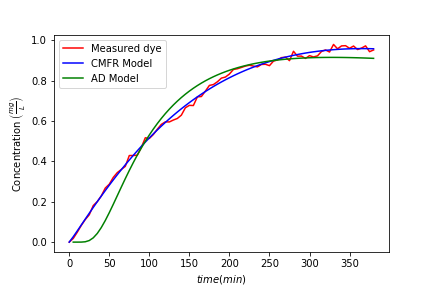
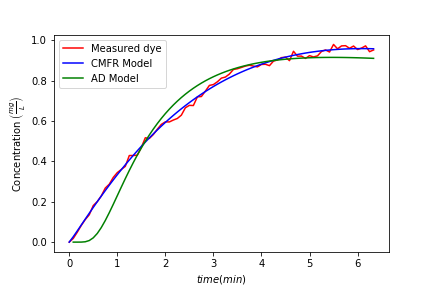
graph units

diff --git a/Lab5/team10_lab5.md b/Lab5/team10_lab5.md
@@ -13,11 +13,15 @@ Baffles:
 
 ### Introduction ###
 Our clients, Dr. Monroe Weber-Shirk and Jonathan Harris, work under the New York State Department of Environmental Conservation. The New York State Department of Environmental Conservation are concerned with the contaminants that have been released into the lakes and rivers by the industry and our clients have been asked to figure out methods to remove the contaminants. For easy analysis, they have modelled the various contaminated lakes and rivers in the New York State as flow reactors in order to decide what actions should be taken, namely CMFR, PFR and flow dispersion reactor. However, they would like to explore how to model the contaminant under the different types of flow reactors.
+
 The main objectives of this study are to:
+
 1.	Determine the time taken for contaminant to be removed in the different types of flow reactors
 2.	Understand how contaminants flow through each of the flow reactors and model them to a high degree of accuracy
 3.	Confirm which flow reactor results in the removal of contaminants the quickest
-CMFR and PFR are both well-known standardized flow reactors. They can be modeled with equations quite simply. The mass balance for the CMFR is given in equation (52).
+CMFR and PFR are both well-known standardized flow reactors. They can be modeled with equations quite simply.
+
+The mass balance for the CMFR is given in equation (52).
 $$\rlap{-} V _{r} \frac{dC}{dt} =\left(C_{in} -C\right)Q$$
 
 Assuming the initial concentration of tracer in the reactor is $C_{0} =\frac{C_{tr} \rlap{-} V _{tr} }{\rlap{-} V _{r} }$ and the input concentration is zero $(C_{in} = 0)$, the solution to the differential equation above is equation (53).
@@ -50,6 +54,8 @@ For the closed boundary condition, the Peclet number is given by equation (69)
 
 $$Pe=2N$$
 
+In our experiment, we used red dye as our contaminant. The reason we chose red dye rather than other “contaminants” is because it is easy to perform the experiment with. It is non-toxic at low dosage and can be clearly seen by our eyes so we could make a good judgement as to when to stop the experiment. More importantly, it is inert and since we are exploring the physical process, it would be ideal for us to ignore any chemical processes of contaminants in the water. Different contaminants have different chemical reactions.
+
 ### Procedures ###
 
 ...
@@ -63,15 +69,19 @@ For the first experiment with one CMFR, it appears that the actual data does not
 ![CMFR1](https://raw.githubusercontent.com/lw583/CEE4530/master/Lab5/CMFR1.png)
 Figure 1: Graph of dye concentration against time for the actual measured dye in one CMFR reactor and its corresponding CMFR model.
 
-For the second experiment with one baffle placed in the reactor, it appears that ...
+For the second experiment with one baffle placed in the reactor, the measured dye concentration appears to remain stagnant from 100 to 180 minutes (Figure 2). This was likely due to an air bubble being trapped in the photometer, which resulted in the later spike. While it is difficult to tell which model is better suited due to poor data, the first 100 minutes follows the CMFR model better than the AD model.
 
 ![CMFR2](https://raw.githubusercontent.com/lw583/CEE4530/master/Lab5/CMFR2.png)
 Figure 2: Graph of dye concentration against time for the actual measured dye in the reactor with one baffle, its corresponding CMFR model and advective dispersion model.
 
+For the third experiment with two identical baffles placed in the reactor, the measured dye concentration indeed appears to fit the CMFR model much better than the AD model (Figure 3).  
+
 ![CMFR3](https://raw.githubusercontent.com/lw583/CEE4530/master/Lab5/CMFR3.png)
 Figure 3: Graph of dye concentration against time for the actual measured dye in the reactor with two baffles, its corresponding CMFR model and advective dispersion model.
 
-Unfortunately for the case with four CMFR reactors in series (using three baffles in between), data...
+Unfortunately for the fourth and final experiment with three identical baffles placed in the reactor, there was an error with data collection, likely due to a trapped air bubble, as measured dye concentration dropped at around 75 minutes...
+ case with four CMFR reactors in series (using three baffles in between), data... dip and spike could not fit to curve model.
+(steady inital slope suggests)
 
 ![CMFR4](https://raw.githubusercontent.com/lw583/CEE4530/master/Lab5/CMFR4.png)
 Figure 3: Graph of dye concentration against time for the actual measured dye in the reactor with four baffles.
@@ -81,6 +91,20 @@ Figure 3: Graph of dye concentration against time for the actual measured dye in
 Report the values of t^{\star} at F = 0.1 for each of your experiments. Do they meet your expectations?
 4. Evaluate whether there is any evidence of “dead volumes” or “short circuiting” in your reactor.
 5. Make a recommendation for the design of a full scale chlorine contact tank. As part of your recommendation discuss the parameter you chose to vary as part of your experimentation and what the optimal value was determined to be.</b>
+
+
+
+### Conclusions ###
+From this experiment, it was found that ...
+
+### Suggestions ###
+Our team believes that while the experiment was successful, there were certain things that could be improved upon. One of the difficulties that we had with the experiment was with following the instructions, in particular setting up the experiment. We feel that this could have been made easier for us if a clearer picture of the set up was shown instead. From the one provided, it was difficult to tell which components were supposed to connect to each other, especially with the peristaltic pump. Furthermore, the instructions should provide more detail to ensure that the probe is in the right place as we had to repeat our experiments multiple times due to this mistake. In particular, the instructions should also specify that the photometer should be placed behind the last baffle for the PFR experiment. Although this is intuitive, we made the mistake the first time we did it, which resulted in us having to repeat the experiment again.
+
+Our team also thinks that we can model the CMFR and PFR more accurately than we did in the experiment. With regards to CMFR, we believe that a container that is more “square” in shape would be better over the rectangular container we used. For the PFR, we felt that adding more baffles into the container would definitely be closer to the ideal PFR.
+
+Some other suggestions we had to expand on the experiment is to change the concentration of the red dye in the experiment to see whether the removal of contaminant is proportional to the concentration of contaminant in the water. It would also be a good idea to do the experiment using different contaminants other than red dye and see whether it would yield different results. This would also be helpful for us to see the accuracy of our model of the different types of flow reactors and consequently, their applicability in the lakes and rivers in the New York State and other places as well.
+
+### Appendix ###
 
 ```python
 from aguaclara.core.units import unit_registry as u
@@ -160,9 +184,9 @@ print('The ratio of tracer to hydraulic residence time was',(CMFR_2_AD.theta/CMF
 
 CMFR_2_AD_model = (CMFR_2_AD.C_bar*epa.E_Advective_Dispersion((CMFR_2_time_data/CMFR_2_AD.theta).to_base_units(), CMFR_2_AD.Pe)).to(u.mg/u.L)
 
-plt.plot(CMFR_2_time_data.to(u.s), CMFR_2_concentration_data.to(u.mg/u.L),'r')
-plt.plot(CMFR_2_time_data.to(u.s), CMFR_2_CMFR_model,'b')
-plt.plot(CMFR_2_time_data.to(u.s), CMFR_2_AD_model,'g')
+plt.plot(CMFR_2_time_data.to(u.min), CMFR_2_concentration_data.to(u.mg/u.L),'r')
+plt.plot(CMFR_2_time_data.to(u.min), CMFR_2_CMFR_model,'b')
+plt.plot(CMFR_2_time_data.to(u.min), CMFR_2_AD_model,'g')
 plt.xlabel(r'$time (min)$')
 plt.ylabel(r'Concentration $\left ( \frac{mg}{L} \right )$')
 plt.legend(['Measured dye','CMFR Model', 'AD Model'])
@@ -201,16 +225,14 @@ print('The ratio of tracer to hydraulic residence time was',(CMFR_3_AD.theta/CMF
 
 CMFR_3_AD_model = (CMFR_3_AD.C_bar*epa.E_Advective_Dispersion((CMFR_3_time_data/CMFR_3_AD.theta).to_base_units(), CMFR_3_AD.Pe)).to(u.mg/u.L)
 
-plt.plot(CMFR_3_time_data.to(u.s), CMFR_3_concentration_data.to(u.mg/u.L),'r')
-plt.plot(CMFR_3_time_data.to(u.s), CMFR_3_CMFR_model,'b')
-plt.plot(CMFR_3_time_data.to(u.s), CMFR_3_AD_model,'g')
+plt.plot(CMFR_3_time_data.to(u.min), CMFR_3_concentration_data.to(u.mg/u.L),'r')
+plt.plot(CMFR_3_time_data.to(u.min), CMFR_3_CMFR_model,'b')
+plt.plot(CMFR_3_time_data.to(u.min), CMFR_3_AD_model,'g')
 plt.xlabel(r'$time (min)$')
 plt.ylabel(r'Concentration $\left ( \frac{mg}{L} \right )$')
 plt.legend(['Measured dye','CMFR Model', 'AD Model'])
 plt.savefig('Lab5/CMFR3.png')
 plt.show()
-
-############################
 
 CMFR_4_path = 'https://raw.githubusercontent.com/lw583/CEE4530/master/Lab5/lab5_cmfr_4.xls'
 CMFR_4_firstrow = epa.notes(CMFR_4_path).last_valid_index() + 1
@@ -244,7 +266,7 @@ CMFR_4_C_bar_guess = np.max(CMFR_4_concentration_data)/2
 
 #CMFR_4_AD_model = (CMFR_4_AD.C_bar*epa.E_Advective_Dispersion((CMFR_4_time_data/CMFR_4_AD.theta).to_base_units(), CMFR_4_AD.Pe)).to(u.mg/u.L)
 
-plt.plot(CMFR_4_time_data.to(u.s), CMFR_4_concentration_data.to(u.mg/u.L),'r')
+plt.plot(CMFR_4_time_data.to(u.min), CMFR_4_concentration_data.to(u.mg/u.L),'r')
 #plt.plot(CMFR_4_time_data.to(u.s), CMFR_4_CMFR_model,'b')
 #plt.plot(CMFR_4_time_data.to(u.s), CMFR_4_AD_model,'g')
 plt.xlabel(r'$time (min)$')
@@ -253,11 +275,3 @@ plt.legend(['Measured dye','CMFR Model', 'AD Model'])
 plt.savefig('Lab5/CMFR4.png')
 plt.show()
 ```
-
-### Conclusions ###
-From this experiment, it was found that ...
-
-### Suggestions ###
-Our team believes that while the experiment was successful, there were certain things that could be improved upon. One of the difficulties that we had with the experiment was with following the instructions, in particular setting up the experiment. We feel that this could have been made easier for us if a clearer picture of the set up was shown instead. From the one provided, it was difficult to tell which components were supposed to connect to each other, especially with the peristaltic pump. Furthermore, the instructions should provide more detail to ensure that the probe is in the right place as we had to repeat our experiments multiple times due to this mistake.
-
-### Appendix ###
